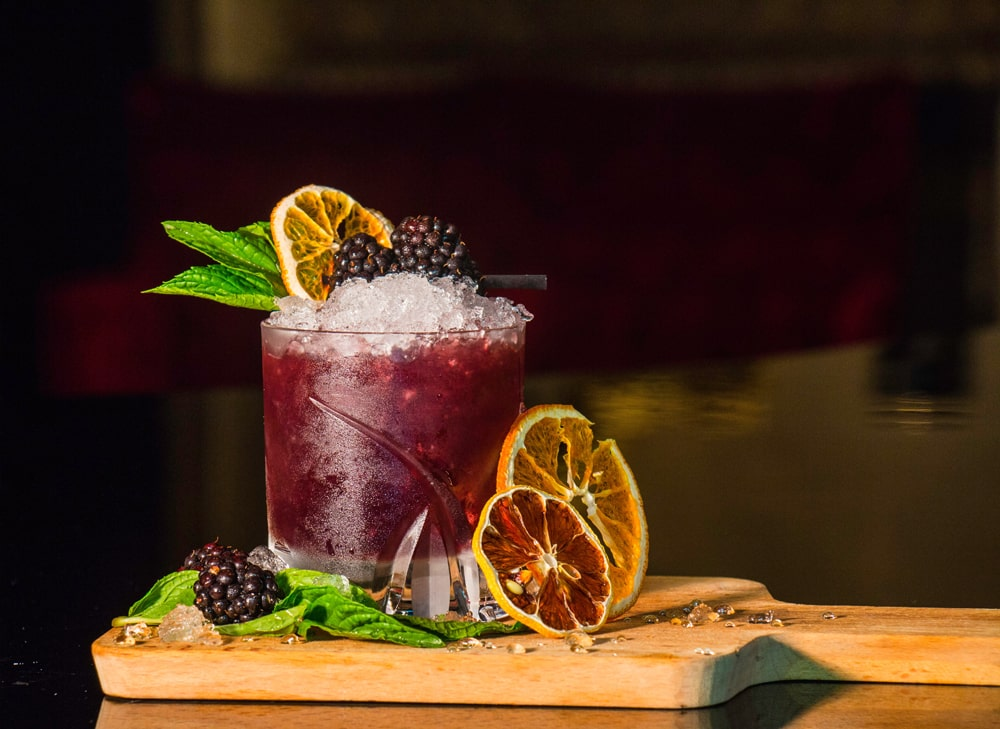
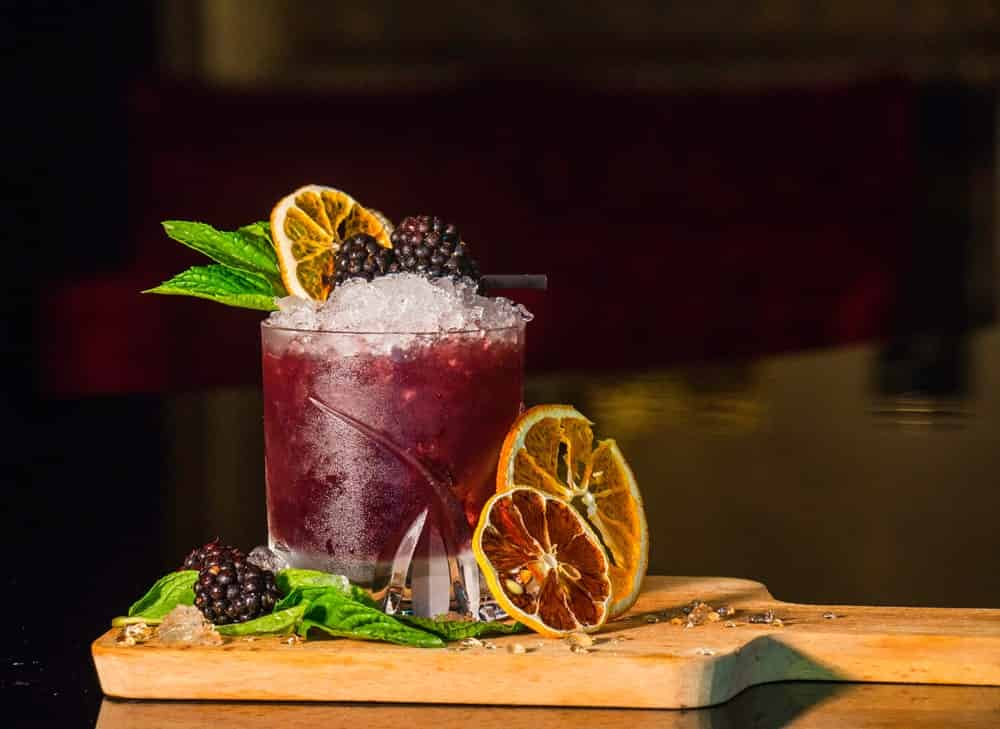
Optimise images

diff --git a/index.html b/index.html
@@ -4,13 +4,35 @@
 		<meta charset="UTF-8" />
 		<meta http-equiv="X-UA-Compatible" content="IE=edge" />
 		<meta name="viewport" content="width=device-width, initial-scale=1.0, user-scalable=no" />
-		<meta name="description" content="A contemporary and elegant restaurant website landing page" />
+		<!-- Primary Meta Tags -->
+		<title>Savory Restaurant - Shamar Morrison</title>
+		<meta name="title" content="Savory Restaurant - Shamar Morrison" />
+		<meta name="description" content="A contemporary and elegant restaurant website landing page." />
+
+		<!-- Open Graph / Facebook -->
+		<meta property="og:type" content="website" />
+		<meta property="og:url" content="https://metatags.io/" />
+		<meta property="og:title" content="Savory Restaurant - Shamar Morrison" />
+		<meta property="og:description" content="A contemporary and elegant restaurant website landing page." />
+		<meta
+			property="og:image"
+			content="https://raw.githubusercontent.com/shamar-morrison/savory-restaurant/main/src/img/og-img.png"
+		/>
+
+		<!-- Twitter -->
+		<meta property="twitter:card" content="summary_large_image" />
+		<meta property="twitter:url" content="https://metatags.io/" />
+		<meta property="twitter:title" content="Savory Restaurant - Shamar Morrison" />
+		<meta property="twitter:description" content="A contemporary and elegant restaurant website landing page." />
+		<meta
+			property="twitter:image"
+			content="https://raw.githubusercontent.com/shamar-morrison/savory-restaurant/main/src/img/og-img.png"
+		/>
 		<link rel="shortcut icon" href="src/img/favicon.png" type="image/png" />
 		<!-- FONT AWESOME -->
 		<link rel="stylesheet" href="https://cdnjs.cloudflare.com/ajax/libs/font-awesome/5.15.3/css/all.min.css" />
 		<!-- CUSTOM STYLESHEET -->
 		<link rel="stylesheet" href="src/sass/index.scss" />
-		<title>Savory Restaurant - Shamar Morrison</title>
 	</head>
 	<body>
 		<!-- PRELOADER -->

diff --git a/src/sass/_base.scss b/src/sass/_base.scss
@@ -1507,11 +1507,11 @@ h6 {
 	color: $clr-primary;
 
 	@include media-breakpoint-down(xl) {
-		top: -22%;
+		top: -20%;
 	}
 
 	@include media-breakpoint-down(lg) {
-		top: -30%;
+		top: -27%;
 		right: 5%;
 	}
 
@@ -1519,8 +1519,9 @@ h6 {
 		top: -25%;
 	}
 
-	@media screen and (max-width: 370px) {
-		top: -22%;
+	@include media-breakpoint-down(sm) {
+		top: -20%;
+		font-size: 12rem;
 	}
 }
 
